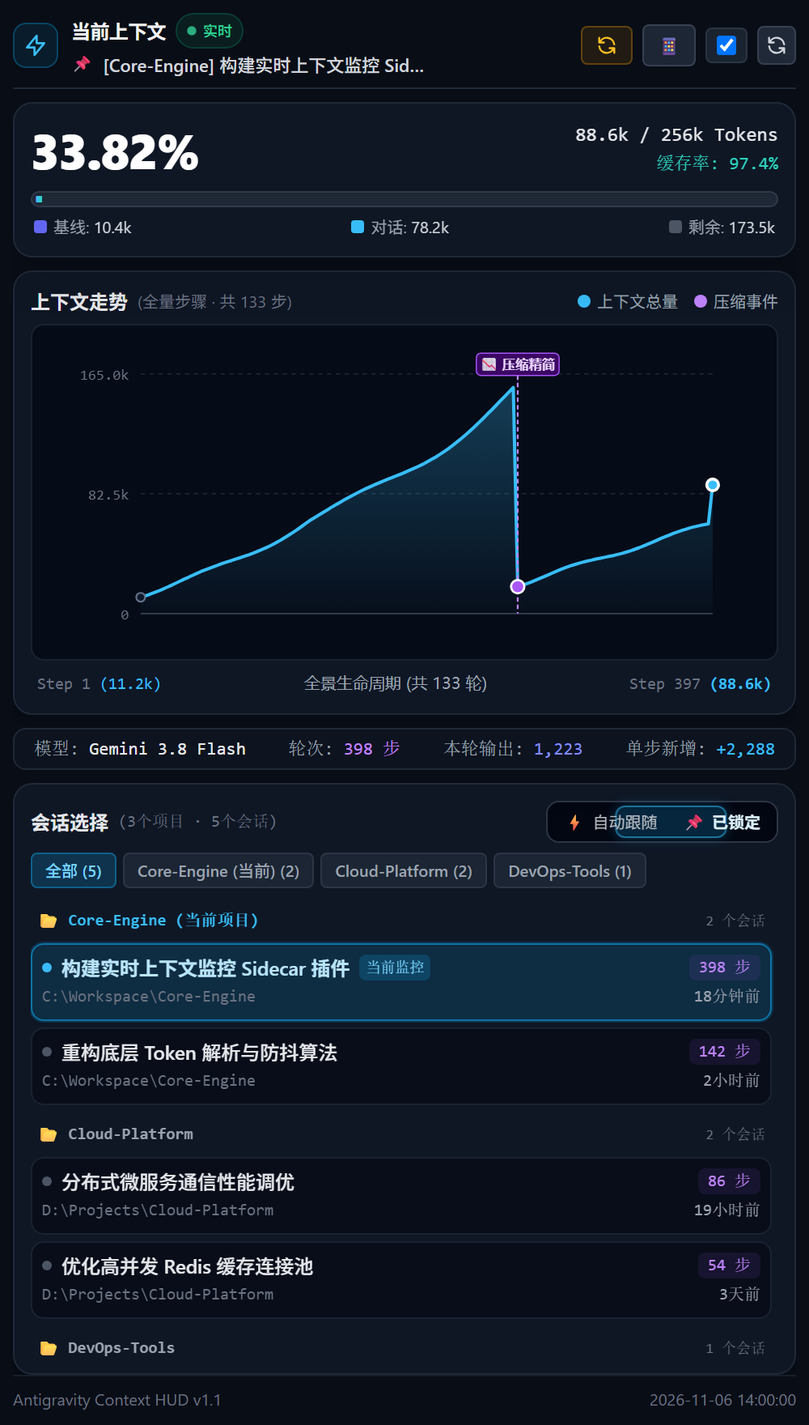
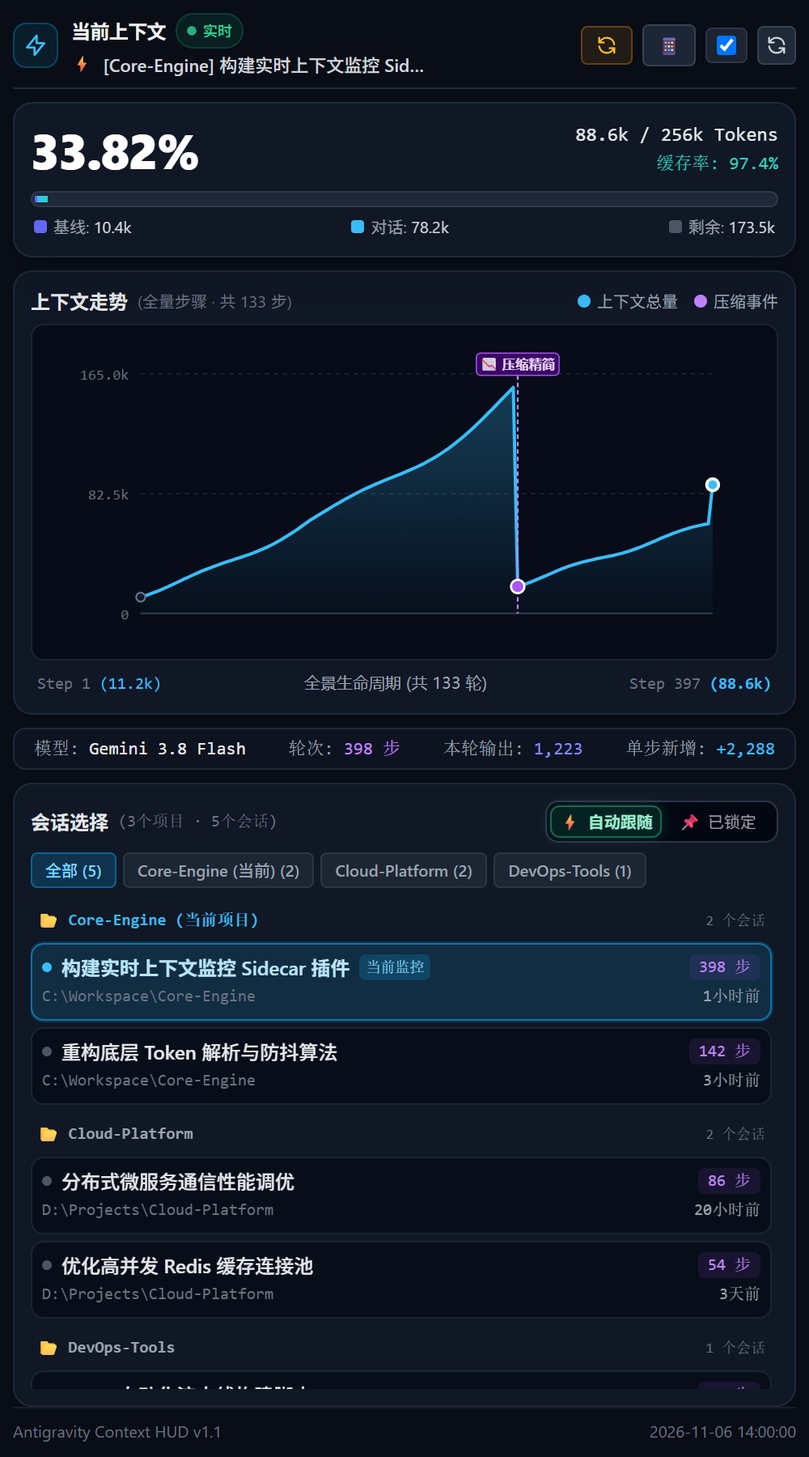
界面与文档优化：修复矢量图标、修正预览滑块对齐并重构专业技术文档

diff --git a/assets/preview.html b/assets/preview.html
@@ -46,11 +46,11 @@
 
   <script>
     window.SANITY_DEMO_DATA = {"success": true, "conversation": {"cid": "conv-core-001", "title": "构建实时上下文监控 Sidecar 插件", "project_name": "Core-Engine", "project_path": "C:\\Workspace\\Core-Engine", "last_modified": "2026-11-06 14:00:00", "last_user_input": "2026-11-06 14:00:00", "step_count": 398}, "model": {"name": "Gemini 3.8 Flash", "context_limit": 262144, "limit_display": "256k"}, "context": {"current_tokens": 88640, "limit_tokens": 262144, "remaining_tokens": 173504, "occupancy_ratio": 33.82, "speed_grade": {"title": "极速闪电档", "desc": "上下文近乎全量命中缓存，首字毫秒级到达", "icon": "⚡", "color": "emerald"}, "latest_uncached_input": 2288, "latest_cache_read": 86352, "latest_output": 1223, "cache_hit_ratio": 97.4, "baseline_system_tokens": 10420, "growth_tokens": 78220, "avg_step_growth": 220, "total_steps": 398, "last_step_index": 398, "last_tools": ["read_file", "edit_file"], "health": {"level": "healthy", "status_text": "健康", "tip": "", "badge_color": "emerald", "action": "none"}, "stacked_composition": {"baseline_pct": 4.0, "growth_pct": 29.8, "free_pct": 66.2}, "spikes": []}, "cumulative": {"input_tokens": 2154300, "cache_tokens": 42180000, "output_tokens": 312000, "total_tokens": 44646300}, "step_history": [{"step_index": 1, "context_tokens": 11220, "delta_tokens": 800, "cache_read_tokens": 10546, "input_tokens": 800, "output_tokens": 120, "tools": ["read_file"], "is_compaction": false, "compaction_drop": 0}, {"step_index": 4, "context_tokens": 12124, "delta_tokens": 904, "cache_read_tokens": 11396, "input_tokens": 904, "output_tokens": 120, "tools": ["run_command"], "is_compaction": false, "compaction_drop": 0}, {"step_index": 7, "context_tokens": 13129, "delta_tokens": 1005, "cache_read_tokens": 12341, "input_tokens": 1005, "output_tokens": 120, "tools": ["read_file"], "is_compaction": false, "compaction_drop": 0}, {"step_index": 10, "context_tokens": 14229, "delta_tokens": 1100, "cache_read_tokens": 13375, "input_tokens": 1100, "output_tokens": 120, "tools": ["run_command"], "is_compaction": false, "compaction_drop": 0}, {"step_index": 13, "context_tokens": 15415, "delta_tokens": 1186, "cache_read_tokens": 14490, "input_tokens": 1186, "output_tokens": 120, "tools": ["read_file"], "is_compaction": false, "compaction_drop": 0}, {"step_index": 16, "context_tokens": 16676, "delta_tokens": 1261, "cache_read_tokens": 15675, "input_tokens": 1261, "output_tokens": 120, "tools": ["run_command"], "is_compaction": false, "compaction_drop": 0}, {"step_index": 19, "context_tokens": 17998, "delta_tokens": 1322, "cache_read_tokens": 16918, "input_tokens": 1322, "output_tokens": 120, "tools": ["read_file"], "is_compaction": false, "compaction_drop": 0}, {"step_index": 22, "context_tokens": 19367, "delta_tokens": 1369, "cache_read_tokens": 18204, "input_tokens": 1369, "output_tokens": 120, "tools": ["run_command"], "is_compaction": false, "compaction_drop": 0}, {"step_index": 25, "context_tokens": 20766, "delta_tokens": 1399, "cache_read_tokens": 19520, "input_tokens": 1399, "output_tokens": 120, "tools": ["read_file"], "is_compaction": false, "compaction_drop": 0}, {"step_index": 28, "context_tokens": 22180, "delta_tokens": 1414, "cache_read_tokens": 20849, "input_tokens": 1414, "output_tokens": 120, "tools": ["run_command"], "is_compaction": false, "compaction_drop": 0}, {"step_index": 31, "context_tokens": 23593, "delta_tokens": 1413, "cache_read_tokens": 22177, "input_tokens": 1413, "output_tokens": 120, "tools": ["read_file"], "is_compaction": false, "compaction_drop": 0}, {"step_index": 34, "context_tokens": 24991, "delta_tokens": 1398, "cache_read_tokens": 23491, "input_tokens": 1398, "output_tokens": 120, "tools": ["run_command"], "is_compaction": false, "compaction_drop": 0}, {"step_index": 37, "context_tokens": 26361, "delta_tokens": 1370, "cache_read_tokens": 24779, "input_tokens": 1370, "output_tokens": 120, "tools": ["read_file"], "is_compaction": false, "compaction_drop": 0}, {"step_index": 40, "context_tokens": 27692, "delta_tokens": 1331, "cache_read_tokens": 26030, "input_tokens": 1331, "output_tokens": 120, "tools": ["run_command"], "is_compaction": false, "compaction_drop": 0}, {"step_index": 43, "context_tokens": 28975, "delta_tokens": 1283, "cache_read_tokens": 27236, "input_tokens": 1283, "output_tokens": 120, "tools": ["read_file"], "is_compaction": false, "compaction_drop": 0}, {"step_index": 46, "context_tokens": 30206, "delta_tokens": 1231, "cache_read_tokens": 28393, "input_tokens": 1231, "output_tokens": 120, "tools": ["run_command"], "is_compaction": false, "compaction_drop": 0}, {"step_index": 49, "context_tokens": 31382, "delta_tokens": 1176, "cache_read_tokens": 29499, "input_tokens": 1176, "output_tokens": 120, "tools": ["read_file"], "is_compaction": false, "compaction_drop": 0}, {"step_index": 52, "context_tokens": 32504, "delta_tokens": 1122, "cache_read_tokens": 30553, "input_tokens": 1122, "output_tokens": 120, "tools": ["run_command"], "is_compaction": false, "compaction_drop": 0}, {"step_index": 55, "context_tokens": 33576, "delta_tokens": 1072, "cache_read_tokens": 31561, "input_tokens": 1072, "output_tokens": 120, "tools": ["read_file"], "is_compaction": false, "compaction_drop": 0}, {"step_index": 58, "context_tokens": 34606, "delta_tokens": 1030, "cache_read_tokens": 32529, "input_tokens": 1030, "output_tokens": 120, "tools": ["run_command"], "is_compaction": false, "compaction_drop": 0}, {"step_index": 61, "context_tokens": 35603, "delta_tokens": 997, "cache_read_tokens": 33466, "input_tokens": 997, "output_tokens": 120, "tools": ["read_file"], "is_compaction": false, "compaction_drop": 0}, {"step_index": 64, "context_tokens": 36579, "delta_tokens": 976, "cache_read_tokens": 34384, "input_tokens": 976, "output_tokens": 120, "tools": ["run_command"], "is_compaction": false, "compaction_drop": 0}, {"step_index": 67, "context_tokens": 37548, "delta_tokens": 969, "cache_read_tokens": 35295, "input_tokens": 969, "output_tokens": 120, "tools": ["read_file"], "is_compaction": false, "compaction_drop": 0}, {"step_index": 70, "context_tokens": 38525, "delta_tokens": 977, "cache_read_tokens": 36213, "input_tokens": 977, "output_tokens": 120, "tools": ["run_command"], "is_compaction": false, "compaction_drop": 0}, {"step_index": 73, "context_tokens": 39526, "delta_tokens": 1001, "cache_read_tokens": 37154, "input_tokens": 1001, "output_tokens": 120, "tools": ["read_file"], "is_compaction": false, "compaction_drop": 0}, {"step_index": 76, "context_tokens": 40567, "delta_tokens": 1041, "cache_read_tokens": 38132, "input_tokens": 1041, "output_tokens": 120, "tools": ["run_command"], "is_compaction": false, "compaction_drop": 0}, {"step_index": 79, "context_tokens": 41663, "delta_tokens": 1096, "cache_read_tokens": 39163, "input_tokens": 1096, "output_tokens": 120, "tools": ["read_file"], "is_compaction": false, "compaction_drop": 0}, {"step_index": 82, "context_tokens": 42828, "delta_tokens": 1165, "cache_read_tokens": 40258, "input_tokens": 1165, "output_tokens": 120, "tools": ["run_command"], "is_compaction": false, "compaction_drop": 0}, {"step_index": 85, "context_tokens": 44075, "delta_tokens": 1247, "cache_read_tokens": 41430, "input_tokens": 1247, "output_tokens": 120, "tools": ["read_file"], "is_compaction": false, "compaction_drop": 0}, {"step_index": 88, "context_tokens": 45414, "delta_tokens": 1339, "cache_read_tokens": 42689, "input_tokens": 1339, "output_tokens": 120, "tools": ["run_command"], "is_compaction": false, "compaction_drop": 0}, {"step_index": 91, "context_tokens": 46852, "delta_tokens": 1438, "cache_read_tokens": 44040, "input_tokens": 1438, "output_tokens": 120, "tools": ["read_file"], "is_compaction": false, "compaction_drop": 0}, {"step_index": 94, "context_tokens": 48393, "delta_tokens": 1541, "cache_read_tokens": 45489, "input_tokens": 1541, "output_tokens": 120, "tools": ["run_command"], "is_compaction": false, "compaction_drop": 0}, {"step_index": 97, "context_tokens": 50039, "delta_tokens": 1646, "cache_read_tokens": 47036, "input_tokens": 1646, "output_tokens": 120, "tools": ["read_file"], "is_compaction": false, "compaction_drop": 0}, {"step_index": 100, "context_tokens": 51788, "delta_tokens": 1749, "cache_read_tokens": 48680, "input_tokens": 1749, "output_tokens": 120, "tools": ["run_command"], "is_compaction": false, "compaction_drop": 0}, {"step_index": 103, "context_tokens": 53635, "delta_tokens": 1847, "cache_read_tokens": 50416, "input_tokens": 1847, "output_tokens": 120, "tools": ["read_file"], "is_compaction": false, "compaction_drop": 0}, {"step_index": 106, "context_tokens": 55572, "delta_tokens": 1937, "cache_read_tokens": 52237, "input_tokens": 1937, "output_tokens": 120, "tools": ["run_command"], "is_compaction": false, "compaction_drop": 0}, {"step_index": 109, "context_tokens": 57589, "delta_tokens": 2017, "cache_read_tokens": 54133, "input_tokens": 2017, "output_tokens": 120, "tools": ["read_file"], "is_compaction": false, "compaction_drop": 0}, {"step_index": 112, "context_tokens": 59673, "delta_tokens": 2084, "cache_read_tokens": 56092, "input_tokens": 2084, "output_tokens": 120, "tools": ["run_command"], "is_compaction": false, "compaction_drop": 0}, {"step_index": 115, "context_tokens": 61810, "delta_tokens": 2137, "cache_read_tokens": 58101, "input_tokens": 2137, "output_tokens": 120, "tools": ["read_file"], "is_compaction": false, "compaction_drop": 0}, {"step_index": 118, "context_tokens": 63984, "delta_tokens": 2174, "cache_read_tokens": 60144, "input_tokens": 2174, "output_tokens": 120, "tools": ["run_command"], "is_compaction": false, "compaction_drop": 0}, {"step_index": 120, "context_tokens": 65784, "delta_tokens": 1800, "cache_read_tokens": 63152, "input_tokens": 1800, "output_tokens": 300, "tools": ["edit_file"], "is_compaction": false, "compaction_drop": 0}, {"step_index": 123, "context_tokens": 67607, "delta_tokens": 1823, "cache_read_tokens": 64902, "input_tokens": 1823, "output_tokens": 300, "tools": ["write_file"], "is_compaction": false, "compaction_drop": 0}, {"step_index": 126, "context_tokens": 69440, "delta_tokens": 1833, "cache_read_tokens": 66662, "input_tokens": 1833, "output_tokens": 300, "tools": ["edit_file"], "is_compaction": false, "compaction_drop": 0}, {"step_index": 129, "context_tokens": 71270, "delta_tokens": 1830, "cache_read_tokens": 68419, "input_tokens": 1830, "output_tokens": 300, "tools": ["write_file"], "is_compaction": false, "compaction_drop": 0}, {"step_index": 132, "context_tokens": 73085, "delta_tokens": 1815, "cache_read_tokens": 70161, "input_tokens": 1815, "output_tokens": 300, "tools": ["edit_file"], "is_compaction": false, "compaction_drop": 0}, {"step_index": 135, "context_tokens": 74874, "delta_tokens": 1789, "cache_read_tokens": 71879, "input_tokens": 1789, "output_tokens": 300, "tools": ["write_file"], "is_compaction": false, "compaction_drop": 0}, {"step_index": 138, "context_tokens": 76626, "delta_tokens": 1752, "cache_read_tokens": 73560, "input_tokens": 1752, "output_tokens": 300, "tools": ["edit_file"], "is_compaction": false, "compaction_drop": 0}, {"step_index": 141, "context_tokens": 78334, "delta_tokens": 1708, "cache_read_tokens": 75200, "input_tokens": 1708, "output_tokens": 300, "tools": ["write_file"], "is_compaction": false, "compaction_drop": 0}, {"step_index": 144, "context_tokens": 79991, "delta_tokens": 1657, "cache_read_tokens": 76791, "input_tokens": 1657, "output_tokens": 300, "tools": ["edit_file"], "is_compaction": false, "compaction_drop": 0}, {"step_index": 147, "context_tokens": 81592, "delta_tokens": 1601, "cache_read_tokens": 78328, "input_tokens": 1601, "output_tokens": 300, "tools": ["write_file"], "is_compaction": false, "compaction_drop": 0}, {"step_index": 150, "context_tokens": 83134, "delta_tokens": 1542, "cache_read_tokens": 79808, "input_tokens": 1542, "output_tokens": 300, "tools": ["edit_file"], "is_compaction": false, "compaction_drop": 0}, {"step_index": 153, "context_tokens": 84616, "delta_tokens": 1482, "cache_read_tokens": 81231, "input_tokens": 1482, "output_tokens": 300, "tools": ["write_file"], "is_compaction": false, "compaction_drop": 0}, {"step_index": 156, "context_tokens": 86039, "delta_tokens": 1423, "cache_read_tokens": 82597, "input_tokens": 1423, "output_tokens": 300, "tools": ["edit_file"], "is_compaction": false, "compaction_drop": 0}, {"step_index": 159, "context_tokens": 87406, "delta_tokens": 1367, "cache_read_tokens": 83909, "input_tokens": 1367, "output_tokens": 300, "tools": ["write_file"], "is_compaction": false, "compaction_drop": 0}, {"step_index": 162, "context_tokens": 88723, "delta_tokens": 1317, "cache_read_tokens": 85174, "input_tokens": 1317, "output_tokens": 300, "tools": ["edit_file"], "is_compaction": false, "compaction_drop": 0}, {"step_index": 165, "context_tokens": 89996, "delta_tokens": 1273, "cache_read_tokens": 86396, "input_tokens": 1273, "output_tokens": 300, "tools": ["write_file"], "is_compaction": false, "compaction_drop": 0}, {"step_index": 168, "context_tokens": 91233, "delta_tokens": 1237, "cache_read_tokens": 87583, "input_tokens": 1237, "output_tokens": 300, "tools": ["edit_file"], "is_compaction": false, "compaction_drop": 0}, {"step_index": 171, "context_tokens": 92444, "delta_tokens": 1211, "cache_read_tokens": 88746, "input_tokens": 1211, "output_tokens": 300, "tools": ["write_file"], "is_compaction": false, "compaction_drop": 0}, {"step_index": 174, "context_tokens": 93641, "delta_tokens": 1197, "cache_read_tokens": 89895, "input_tokens": 1197, "output_tokens": 300, "tools": ["edit_file"], "is_compaction": false, "compaction_drop": 0}, {"step_index": 177, "context_tokens": 94836, "delta_tokens": 1195, "cache_read_tokens": 91042, "input_tokens": 1195, "output_tokens": 300, "tools": ["write_file"], "is_compaction": false, "compaction_drop": 0}, {"step_index": 180, "context_tokens": 96042, "delta_tokens": 1206, "cache_read_tokens": 92200, "input_tokens": 1206, "output_tokens": 300, "tools": ["edit_file"], "is_compaction": false, "compaction_drop": 0}, {"step_index": 183, "context_tokens": 97272, "delta_tokens": 1230, "cache_read_tokens": 93381, "input_tokens": 1230, "output_tokens": 300, "tools": ["write_file"], "is_compaction": false, "compaction_drop": 0}, {"step_index": 186, "context_tokens": 98539, "delta_tokens": 1267, "cache_read_tokens": 94597, "input_tokens": 1267, "output_tokens": 300, "tools": ["edit_file"], "is_compaction": false, "compaction_drop": 0}, {"step_index": 189, "context_tokens": 99857, "delta_tokens": 1318, "cache_read_tokens": 95862, "input_tokens": 1318, "output_tokens": 300, "tools": ["write_file"], "is_compaction": false, "compaction_drop": 0}, {"step_index": 192, "context_tokens": 101238, "delta_tokens": 1381, "cache_read_tokens": 97188, "input_tokens": 1381, "output_tokens": 300, "tools": ["edit_file"], "is_compaction": false, "compaction_drop": 0}, {"step_index": 195, "context_tokens": 102695, "delta_tokens": 1457, "cache_read_tokens": 98587, "input_tokens": 1457, "output_tokens": 300, "tools": ["write_file"], "is_compaction": false, "compaction_drop": 0}, {"step_index": 198, "context_tokens": 104239, "delta_tokens": 1544, "cache_read_tokens": 100069, "input_tokens": 1544, "output_tokens": 300, "tools": ["edit_file"], "is_compaction": false, "compaction_drop": 0}, {"step_index": 201, "context_tokens": 105879, "delta_tokens": 1640, "cache_read_tokens": 101643, "input_tokens": 1640, "output_tokens": 300, "tools": ["write_file"], "is_compaction": false, "compaction_drop": 0}, {"step_index": 204, "context_tokens": 107624, "delta_tokens": 1745, "cache_read_tokens": 103319, "input_tokens": 1745, "output_tokens": 300, "tools": ["edit_file"], "is_compaction": false, "compaction_drop": 0}, {"step_index": 207, "context_tokens": 109481, "delta_tokens": 1857, "cache_read_tokens": 105101, "input_tokens": 1857, "output_tokens": 300, "tools": ["write_file"], "is_compaction": false, "compaction_drop": 0}, {"step_index": 210, "context_tokens": 111454, "delta_tokens": 1973, "cache_read_tokens": 106995, "input_tokens": 1973, "output_tokens": 300, "tools": ["edit_file"], "is_compaction": false, "compaction_drop": 0}, {"step_index": 213, "context_tokens": 113546, "delta_tokens": 2092, "cache_read_tokens": 109004, "input_tokens": 2092, "output_tokens": 300, "tools": ["write_file"], "is_compaction": false, "compaction_drop": 0}, {"step_index": 216, "context_tokens": 115758, "delta_tokens": 2212, "cache_read_tokens": 111127, "input_tokens": 2212, "output_tokens": 300, "tools": ["edit_file"], "is_compaction": false, "compaction_drop": 0}, {"step_index": 219, "context_tokens": 118089, "delta_tokens": 2331, "cache_read_tokens": 113365, "input_tokens": 2331, "output_tokens": 300, "tools": ["write_file"], "is_compaction": false, "compaction_drop": 0}, {"step_index": 222, "context_tokens": 120535, "delta_tokens": 2446, "cache_read_tokens": 115713, "input_tokens": 2446, "output_tokens": 300, "tools": ["edit_file"], "is_compaction": false, "compaction_drop": 0}, {"step_index": 225, "context_tokens": 123092, "delta_tokens": 2557, "cache_read_tokens": 118168, "input_tokens": 2557, "output_tokens": 300, "tools": ["write_file"], "is_compaction": false, "compaction_drop": 0}, {"step_index": 228, "context_tokens": 125752, "delta_tokens": 2660, "cache_read_tokens": 120721, "input_tokens": 2660, "output_tokens": 300, "tools": ["edit_file"], "is_compaction": false, "compaction_drop": 0}, {"step_index": 231, "context_tokens": 128507, "delta_tokens": 2755, "cache_read_tokens": 123366, "input_tokens": 2755, "output_tokens": 300, "tools": ["write_file"], "is_compaction": false, "compaction_drop": 0}, {"step_index": 234, "context_tokens": 131347, "delta_tokens": 2840, "cache_read_tokens": 126093, "input_tokens": 2840, "output_tokens": 300, "tools": ["edit_file"], "is_compaction": false, "compaction_drop": 0}, {"step_index": 237, "context_tokens": 134261, "delta_tokens": 2914, "cache_read_tokens": 128890, "input_tokens": 2914, "output_tokens": 300, "tools": ["write_file"], "is_compaction": false, "compaction_drop": 0}, {"step_index": 240, "context_tokens": 137237, "delta_tokens": 2976, "cache_read_tokens": 131747, "input_tokens": 2976, "output_tokens": 300, "tools": ["edit_file"], "is_compaction": false, "compaction_drop": 0}, {"step_index": 243, "context_tokens": 140261, "delta_tokens": 3024, "cache_read_tokens": 134650, "input_tokens": 3024, "output_tokens": 300, "tools": ["write_file"], "is_compaction": false, "compaction_drop": 0}, {"step_index": 246, "context_tokens": 143320, "delta_tokens": 3059, "cache_read_tokens": 137587, "input_tokens": 3059, "output_tokens": 300, "tools": ["edit_file"], "is_compaction": false, "compaction_drop": 0}, {"step_index": 249, "context_tokens": 146401, "delta_tokens": 3081, "cache_read_tokens": 140544, "input_tokens": 3081, "output_tokens": 300, "tools": ["write_file"], "is_compaction": false, "compaction_drop": 0}, {"step_index": 252, "context_tokens": 149491, "delta_tokens": 3090, "cache_read_tokens": 143511, "input_tokens": 3090, "output_tokens": 300, "tools": ["edit_file"], "is_compaction": false, "compaction_drop": 0}, {"step_index": 255, "context_tokens": 152576, "delta_tokens": 3085, "cache_read_tokens": 146472, "input_tokens": 3085, "output_tokens": 300, "tools": ["write_file"], "is_compaction": false, "compaction_drop": 0}, {"step_index": 258, "context_tokens": 155645, "delta_tokens": 3069, "cache_read_tokens": 149419, "input_tokens": 3069, "output_tokens": 300, "tools": ["edit_file"], "is_compaction": false, "compaction_drop": 0}, {"step_index": 263, "context_tokens": 18500, "delta_tokens": 0, "cache_read_tokens": 0, "input_tokens": 18500, "output_tokens": 240, "tools": ["run_command"], "is_compaction": true, "compaction_drop": 137145}, {"step_index": 265, "context_tokens": 19450, "delta_tokens": 950, "cache_read_tokens": 18866, "input_tokens": 950, "output_tokens": 450, "tools": ["read_file", "edit_file"], "is_compaction": false, "compaction_drop": 0}, {"step_index": 268, "context_tokens": 20486, "delta_tokens": 1036, "cache_read_tokens": 19871, "input_tokens": 1036, "output_tokens": 450, "tools": ["run_command"], "is_compaction": false, "compaction_drop": 0}, {"step_index": 271, "context_tokens": 21603, "delta_tokens": 1117, "cache_read_tokens": 20954, "input_tokens": 1117, "output_tokens": 450, "tools": ["run_command"], "is_compaction": false, "compaction_drop": 0}, {"step_index": 274, "context_tokens": 22791, "delta_tokens": 1188, "cache_read_tokens": 22107, "input_tokens": 1188, "output_tokens": 450, "tools": ["read_file", "edit_file"], "is_compaction": false, "compaction_drop": 0}, {"step_index": 277, "context_tokens": 24035, "delta_tokens": 1244, "cache_read_tokens": 23313, "input_tokens": 1244, "output_tokens": 450, "tools": ["run_command"], "is_compaction": false, "compaction_drop": 0}, {"step_index": 280, "context_tokens": 25317, "delta_tokens": 1282, "cache_read_tokens": 24557, "input_tokens": 1282, "output_tokens": 450, "tools": ["run_command"], "is_compaction": false, "compaction_drop": 0}, {"step_index": 283, "context_tokens": 26616, "delta_tokens": 1299, "cache_read_tokens": 25817, "input_tokens": 1299, "output_tokens": 450, "tools": ["read_file", "edit_file"], "is_compaction": false, "compaction_drop": 0}, {"step_index": 286, "context_tokens": 27910, "delta_tokens": 1294, "cache_read_tokens": 27072, "input_tokens": 1294, "output_tokens": 450, "tools": ["run_command"], "is_compaction": false, "compaction_drop": 0}, {"step_index": 289, "context_tokens": 29178, "delta_tokens": 1268, "cache_read_tokens": 28302, "input_tokens": 1268, "output_tokens": 450, "tools": ["run_command"], "is_compaction": false, "compaction_drop": 0}, {"step_index": 292, "context_tokens": 30400, "delta_tokens": 1222, "cache_read_tokens": 29488, "input_tokens": 1222, "output_tokens": 450, "tools": ["read_file", "edit_file"], "is_compaction": false, "compaction_drop": 0}, {"step_index": 295, "context_tokens": 31559, "delta_tokens": 1159, "cache_read_tokens": 30612, "input_tokens": 1159, "output_tokens": 450, "tools": ["run_command"], "is_compaction": false, "compaction_drop": 0}, {"step_index": 298, "context_tokens": 32642, "delta_tokens": 1083, "cache_read_tokens": 31662, "input_tokens": 1083, "output_tokens": 450, "tools": ["run_command"], "is_compaction": false, "compaction_drop": 0}, {"step_index": 301, "context_tokens": 33641, "delta_tokens": 999, "cache_read_tokens": 32631, "input_tokens": 999, "output_tokens": 450, "tools": ["read_file", "edit_file"], "is_compaction": false, "compaction_drop": 0}, {"step_index": 304, "context_tokens": 34553, "delta_tokens": 912, "cache_read_tokens": 33516, "input_tokens": 912, "output_tokens": 450, "tools": ["run_command"], "is_compaction": false, "compaction_drop": 0}, {"step_index": 307, "context_tokens": 35380, "delta_tokens": 827, "cache_read_tokens": 34318, "input_tokens": 827, "output_tokens": 450, "tools": ["run_command"], "is_compaction": false, "compaction_drop": 0}, {"step_index": 310, "context_tokens": 36129, "delta_tokens": 749, "cache_read_tokens": 35045, "input_tokens": 749, "output_tokens": 450, "tools": ["read_file", "edit_file"], "is_compaction": false, "compaction_drop": 0}, {"step_index": 313, "context_tokens": 36814, "delta_tokens": 685, "cache_read_tokens": 35709, "input_tokens": 685, "output_tokens": 450, "tools": ["run_command"], "is_compaction": false, "compaction_drop": 0}, {"step_index": 316, "context_tokens": 37450, "delta_tokens": 636, "cache_read_tokens": 36326, "input_tokens": 636, "output_tokens": 450, "tools": ["run_command"], "is_compaction": false, "compaction_drop": 0}, {"step_index": 319, "context_tokens": 38057, "delta_tokens": 607, "cache_read_tokens": 36915, "input_tokens": 607, "output_tokens": 450, "tools": ["read_file", "edit_file"], "is_compaction": false, "compaction_drop": 0}, {"step_index": 322, "context_tokens": 38657, "delta_tokens": 600, "cache_read_tokens": 37497, "input_tokens": 600, "output_tokens": 450, "tools": ["run_command"], "is_compaction": false, "compaction_drop": 0}, {"step_index": 325, "context_tokens": 39271, "delta_tokens": 614, "cache_read_tokens": 38092, "input_tokens": 614, "output_tokens": 450, "tools": ["run_command"], "is_compaction": false, "compaction_drop": 0}, {"step_index": 328, "context_tokens": 39920, "delta_tokens": 649, "cache_read_tokens": 38722, "input_tokens": 649, "output_tokens": 450, "tools": ["read_file", "edit_file"], "is_compaction": false, "compaction_drop": 0}, {"step_index": 331, "context_tokens": 40623, "delta_tokens": 703, "cache_read_tokens": 39404, "input_tokens": 703, "output_tokens": 450, "tools": ["run_command"], "is_compaction": false, "compaction_drop": 0}, {"step_index": 334, "context_tokens": 41395, "delta_tokens": 772, "cache_read_tokens": 40153, "input_tokens": 772, "output_tokens": 450, "tools": ["run_command"], "is_compaction": false, "compaction_drop": 0}, {"step_index": 337, "context_tokens": 42247, "delta_tokens": 852, "cache_read_tokens": 40979, "input_tokens": 852, "output_tokens": 450, "tools": ["read_file", "edit_file"], "is_compaction": false, "compaction_drop": 0}, {"step_index": 340, "context_tokens": 43185, "delta_tokens": 938, "cache_read_tokens": 41889, "input_tokens": 938, "output_tokens": 450, "tools": ["run_command"], "is_compaction": false, "compaction_drop": 0}, {"step_index": 343, "context_tokens": 44210, "delta_tokens": 1025, "cache_read_tokens": 42883, "input_tokens": 1025, "output_tokens": 450, "tools": ["run_command"], "is_compaction": false, "compaction_drop": 0}, {"step_index": 346, "context_tokens": 45317, "delta_tokens": 1107, "cache_read_tokens": 43957, "input_tokens": 1107, "output_tokens": 450, "tools": ["read_file", "edit_file"], "is_compaction": false, "compaction_drop": 0}, {"step_index": 349, "context_tokens": 46496, "delta_tokens": 1179, "cache_read_tokens": 45101, "input_tokens": 1179, "output_tokens": 450, "tools": ["run_command"], "is_compaction": false, "compaction_drop": 0}, {"step_index": 352, "context_tokens": 47734, "delta_tokens": 1238, "cache_read_tokens": 46301, "input_tokens": 1238, "output_tokens": 450, "tools": ["run_command"], "is_compaction": false, "compaction_drop": 0}, {"step_index": 355, "context_tokens": 49012, "delta_tokens": 1278, "cache_read_tokens": 47541, "input_tokens": 1278, "output_tokens": 450, "tools": ["read_file", "edit_file"], "is_compaction": false, "compaction_drop": 0}, {"step_index": 358, "context_tokens": 50310, "delta_tokens": 1298, "cache_read_tokens": 48800, "input_tokens": 1298, "output_tokens": 450, "tools": ["run_command"], "is_compaction": false, "compaction_drop": 0}, {"step_index": 361, "context_tokens": 51606, "delta_tokens": 1296, "cache_read_tokens": 50057, "input_tokens": 1296, "output_tokens": 450, "tools": ["run_command"], "is_compaction": false, "compaction_drop": 0}, {"step_index": 364, "context_tokens": 52878, "delta_tokens": 1272, "cache_read_tokens": 51291, "input_tokens": 1272, "output_tokens": 450, "tools": ["read_file", "edit_file"], "is_compaction": false, "compaction_drop": 0}, {"step_index": 367, "context_tokens": 54107, "delta_tokens": 1229, "cache_read_tokens": 52483, "input_tokens": 1229, "output_tokens": 450, "tools": ["run_command"], "is_compaction": false, "compaction_drop": 0}, {"step_index": 370, "context_tokens": 55275, "delta_tokens": 1168, "cache_read_tokens": 53616, "input_tokens": 1168, "output_tokens": 450, "tools": ["run_command"], "is_compaction": false, "compaction_drop": 0}, {"step_index": 373, "context_tokens": 56369, "delta_tokens": 1094, "cache_read_tokens": 54677, "input_tokens": 1094, "output_tokens": 450, "tools": ["read_file", "edit_file"], "is_compaction": false, "compaction_drop": 0}, {"step_index": 376, "context_tokens": 57379, "delta_tokens": 1010, "cache_read_tokens": 55657, "input_tokens": 1010, "output_tokens": 450, "tools": ["run_command"], "is_compaction": false, "compaction_drop": 0}, {"step_index": 379, "context_tokens": 58302, "delta_tokens": 923, "cache_read_tokens": 56552, "input_tokens": 923, "output_tokens": 450, "tools": ["run_command"], "is_compaction": false, "compaction_drop": 0}, {"step_index": 382, "context_tokens": 59140, "delta_tokens": 838, "cache_read_tokens": 57365, "input_tokens": 838, "output_tokens": 450, "tools": ["read_file", "edit_file"], "is_compaction": false, "compaction_drop": 0}, {"step_index": 385, "context_tokens": 59899, "delta_tokens": 759, "cache_read_tokens": 58102, "input_tokens": 759, "output_tokens": 450, "tools": ["run_command"], "is_compaction": false, "compaction_drop": 0}, {"step_index": 388, "context_tokens": 60591, "delta_tokens": 692, "cache_read_tokens": 58773, "input_tokens": 692, "output_tokens": 450, "tools": ["run_command"], "is_compaction": false, "compaction_drop": 0}, {"step_index": 391, "context_tokens": 61233, "delta_tokens": 642, "cache_read_tokens": 59396, "input_tokens": 642, "output_tokens": 450, "tools": ["read_file", "edit_file"], "is_compaction": false, "compaction_drop": 0}, {"step_index": 394, "context_tokens": 61843, "delta_tokens": 610, "cache_read_tokens": 59987, "input_tokens": 610, "output_tokens": 450, "tools": ["run_command"], "is_compaction": false, "compaction_drop": 0}, {"step_index": 397, "context_tokens": 88640, "delta_tokens": 600, "cache_read_tokens": 60569, "input_tokens": 600, "output_tokens": 450, "tools": ["run_command"], "is_compaction": false, "compaction_drop": 0}], "all_conversations": [{"cid": "conv-core-001", "title": "构建实时上下文监控 Sidecar 插件", "project_name": "Core-Engine", "project_path": "C:\\Workspace\\Core-Engine", "last_modified": "2026-11-06 14:00:00", "last_user_input": "2026-11-06 14:00:00", "step_count": 398}, {"cid": "conv-core-002", "title": "重构底层 Token 解析与防抖算法", "project_name": "Core-Engine", "project_path": "C:\\Workspace\\Core-Engine", "last_modified": "2026-11-06 12:15:00", "last_user_input": "2026-11-06 12:15:00", "step_count": 142}, {"cid": "conv-cloud-001", "title": "分布式微服务通信性能调优", "project_name": "Cloud-Platform", "project_path": "D:\\Projects\\Cloud-Platform", "last_modified": "2026-11-05 18:30:00", "last_user_input": "2026-11-05 18:30:00", "step_count": 86}, {"cid": "conv-cloud-002", "title": "优化高并发 Redis 缓存连接池", "project_name": "Cloud-Platform", "project_path": "D:\\Projects\\Cloud-Platform", "last_modified": "2026-11-03 10:20:00", "last_user_input": "2026-11-03 10:20:00", "step_count": 54}, {"cid": "conv-devops-001", "title": "CI/CD 自动化流水线构建脚本", "project_name": "DevOps-Tools", "project_path": "E:\\DevOps\\Pipeline", "last_modified": "2026-11-01 16:45:00", "last_user_input": "2026-11-01 16:45:00", "step_count": 32}], "updated_at": "2026-11-06 14:00:00"};
-    localStorage.setItem('context_hud_locked_cid', 'conv-core-001');
+    localStorage.removeItem('context_hud_locked_cid');
 
     window.addEventListener('DOMContentLoaded', () => {
       cachedConversations = window.SANITY_DEMO_DATA.all_conversations;
-      selectedCid = 'conv-core-001';
+      selectedCid = '';
       trackedCid = 'conv-core-001';
       renderDashboard(window.SANITY_DEMO_DATA);
       renderConversationListUI();
@@ -213,18 +213,18 @@
             <span id="projectCountBadge" class="text-[10px] text-gray-500 font-mono">(按项目分类)</span>
           </div>
           <!-- 左右滑动的可视化切换按钮 (Sliding Segmented Toggle) -->
-          <div id="followLockSwitch" class="relative flex items-center bg-gray-950 p-0.5 rounded-lg border border-gray-700/80 cursor-pointer select-none shadow-inner" title="点击或滑动切换：⚡ 自动跟随最新活跃会话 或 📌 锁定当前会话">
+          <div id="followLockSwitch" class="relative grid grid-cols-2 bg-gray-950 p-0.5 rounded-lg border border-gray-700/80 cursor-pointer select-none shadow-inner w-36" title="点击或滑动切换：⚡ 自动跟随最新活跃会话 或 📌 锁定当前会话">
             <!-- 左右滑动的色块指示药丸 (Sliding Indicator) -->
-            <div id="switchThumb" class="absolute top-0.5 bottom-0.5 left-0.5 w-[calc(50%-2px)] rounded-md transition-all duration-200 ease-out shadow-sm pointer-events-none"></div>
+            <div id="switchThumb" class="absolute top-0.5 bottom-0.5 left-0.5 w-[calc(50%-2px)] rounded-md transition-none shadow-sm pointer-events-none"></div>
 
             <!-- 左选项：自动跟随 -->
-            <button type="button" id="switchOptAuto" class="relative z-10 px-2 py-0.5 text-[10px] font-medium transition-colors flex items-center gap-1 focus:outline-none">
+            <button type="button" id="switchOptAuto" class="relative z-10 w-full py-0.5 text-[10px] font-medium transition-colors flex items-center justify-center gap-1 focus:outline-none">
               <span>⚡</span>
               <span>自动跟随</span>
             </button>
 
             <!-- 右选项：已锁定 -->
-            <button type="button" id="switchOptLock" class="relative z-10 px-2 py-0.5 text-[10px] font-medium transition-colors flex items-center gap-1 focus:outline-none">
+            <button type="button" id="switchOptLock" class="relative z-10 w-full py-0.5 text-[10px] font-medium transition-colors flex items-center justify-center gap-1 focus:outline-none">
               <span>📌</span>
               <span>已锁定</span>
             </button>
@@ -280,7 +280,7 @@
 
   <script>
     let pollTimer = null;
-    let selectedCid = localStorage.getItem('context_hud_locked_cid') || "";
+    let selectedCid = "";
     let trackedCid = "";
     let isFetching = false;
     let isCompactView = localStorage.getItem('context_hud_compact') === 'true';
@@ -337,18 +337,18 @@
       if (!thumb || !optAuto || !optLock) return;
 
       if (selectedCid) {
-        // 状态：已锁定 -> 滑块平滑右移 (琥珀金/天蓝微光)
+        // 状态：已锁定 -> 滑块平滑右移到右半部
         thumb.style.transform = 'translateX(100%)';
-        thumb.className = "absolute top-0.5 bottom-0.5 left-0.5 w-[calc(50%-2px)] rounded-md transition-transform duration-200 ease-out bg-sky-500/20 border border-sky-400/50 shadow-[0_0_8px_rgba(56,189,248,0.25)] pointer-events-none";
-        optAuto.className = "relative z-10 px-2 py-0.5 text-[10px] font-normal transition-colors flex items-center gap-1 text-gray-500 hover:text-gray-300 focus:outline-none";
-        optLock.className = "relative z-10 px-2 py-0.5 text-[10px] font-semibold transition-colors flex items-center gap-1 text-sky-200 focus:outline-none";
+        thumb.className = "absolute top-0.5 bottom-0.5 left-0.5 w-[calc(50%-2px)] rounded-md transition-none bg-sky-500/20 border border-sky-400/50 shadow-[0_0_8px_rgba(56,189,248,0.25)] pointer-events-none";
+        optAuto.className = "relative z-10 w-full py-0.5 text-[10px] font-normal transition-colors flex items-center justify-center gap-1 text-gray-500 hover:text-gray-300 focus:outline-none";
+        optLock.className = "relative z-10 w-full py-0.5 text-[10px] font-semibold transition-colors flex items-center justify-center gap-1 text-sky-200 focus:outline-none";
         if (headerIcon) headerIcon.innerText = "📌";
       } else {
         // 状态：自动跟随 -> 滑块平滑归左
         thumb.style.transform = 'translateX(0%)';
-        thumb.className = "absolute top-0.5 bottom-0.5 left-0.5 w-[calc(50%-2px)] rounded-md transition-transform duration-200 ease-out bg-emerald-500/15 border border-emerald-400/40 shadow-[0_0_8px_rgba(52,211,153,0.2)] pointer-events-none";
-        optAuto.className = "relative z-10 px-2 py-0.5 text-[10px] font-semibold transition-colors flex items-center gap-1 text-emerald-300 focus:outline-none";
-        optLock.className = "relative z-10 px-2 py-0.5 text-[10px] font-normal transition-colors flex items-center gap-1 text-gray-500 hover:text-gray-300 focus:outline-none";
+        thumb.className = "absolute top-0.5 bottom-0.5 left-0.5 w-[calc(50%-2px)] rounded-md transition-none bg-emerald-500/15 border border-emerald-400/40 shadow-[0_0_8px_rgba(52,211,153,0.2)] pointer-events-none";
+        optAuto.className = "relative z-10 w-full py-0.5 text-[10px] font-semibold transition-colors flex items-center justify-center gap-1 text-emerald-300 focus:outline-none";
+        optLock.className = "relative z-10 w-full py-0.5 text-[10px] font-normal transition-colors flex items-center justify-center gap-1 text-gray-500 hover:text-gray-300 focus:outline-none";
         if (headerIcon) headerIcon.innerText = "⚡";
       }
     }
@@ -1076,5 +1076,21 @@
       }
     });
   </script>
+
+<script>
+window.addEventListener('load', () => {
+  setTimeout(() => {
+    const sw = document.getElementById('followLockSwitch');
+    const th = document.getElementById('switchThumb');
+    const a = document.getElementById('switchOptAuto');
+    const l = document.getElementById('switchOptLock');
+    console.log("=== DEBUG RECTS ===");
+    console.log("Switch:", JSON.stringify(sw.getBoundingClientRect()));
+    console.log("Thumb:", JSON.stringify(th.getBoundingClientRect()), "computed transform:", window.getComputedStyle(th).transform);
+    console.log("Auto:", JSON.stringify(a.getBoundingClientRect()));
+    console.log("Lock:", JSON.stringify(l.getBoundingClientRect()));
+  }, 100);
+});
+</script>
 </body>
 </html>

diff --git a/sidecars/context-hud/index.html b/sidecars/context-hud/index.html
@@ -189,18 +189,18 @@
             <span id="projectCountBadge" class="text-[10px] text-gray-500 font-mono">(按项目分类)</span>
           </div>
           <!-- 左右滑动的可视化切换按钮 (Sliding Segmented Toggle) -->
-          <div id="followLockSwitch" class="relative flex items-center bg-gray-950 p-0.5 rounded-lg border border-gray-700/80 cursor-pointer select-none shadow-inner" title="点击或滑动切换：⚡ 自动跟随最新活跃会话 或 📌 锁定当前会话">
+          <div id="followLockSwitch" class="relative grid grid-cols-2 bg-gray-950 p-0.5 rounded-lg border border-gray-700/80 cursor-pointer select-none shadow-inner w-36" title="点击或滑动切换：⚡ 自动跟随最新活跃会话 或 📌 锁定当前会话">
             <!-- 左右滑动的色块指示药丸 (Sliding Indicator) -->
             <div id="switchThumb" class="absolute top-0.5 bottom-0.5 left-0.5 w-[calc(50%-2px)] rounded-md transition-all duration-200 ease-out shadow-sm pointer-events-none"></div>
 
             <!-- 左选项：自动跟随 -->
-            <button type="button" id="switchOptAuto" class="relative z-10 px-2 py-0.5 text-[10px] font-medium transition-colors flex items-center gap-1 focus:outline-none">
+            <button type="button" id="switchOptAuto" class="relative z-10 w-full py-0.5 text-[10px] font-medium transition-colors flex items-center justify-center gap-1 focus:outline-none">
               <span>⚡</span>
               <span>自动跟随</span>
             </button>
 
             <!-- 右选项：已锁定 -->
-            <button type="button" id="switchOptLock" class="relative z-10 px-2 py-0.5 text-[10px] font-medium transition-colors flex items-center gap-1 focus:outline-none">
+            <button type="button" id="switchOptLock" class="relative z-10 w-full py-0.5 text-[10px] font-medium transition-colors flex items-center justify-center gap-1 focus:outline-none">
               <span>📌</span>
               <span>已锁定</span>
             </button>
@@ -313,18 +313,18 @@
       if (!thumb || !optAuto || !optLock) return;
 
       if (selectedCid) {
-        // 状态：已锁定 -> 滑块平滑右移 (琥珀金/天蓝微光)
+        // 状态：已锁定 -> 滑块平滑右移到右半部
         thumb.style.transform = 'translateX(100%)';
         thumb.className = "absolute top-0.5 bottom-0.5 left-0.5 w-[calc(50%-2px)] rounded-md transition-transform duration-200 ease-out bg-sky-500/20 border border-sky-400/50 shadow-[0_0_8px_rgba(56,189,248,0.25)] pointer-events-none";
-        optAuto.className = "relative z-10 px-2 py-0.5 text-[10px] font-normal transition-colors flex items-center gap-1 text-gray-500 hover:text-gray-300 focus:outline-none";
-        optLock.className = "relative z-10 px-2 py-0.5 text-[10px] font-semibold transition-colors flex items-center gap-1 text-sky-200 focus:outline-none";
+        optAuto.className = "relative z-10 w-full py-0.5 text-[10px] font-normal transition-colors flex items-center justify-center gap-1 text-gray-500 hover:text-gray-300 focus:outline-none";
+        optLock.className = "relative z-10 w-full py-0.5 text-[10px] font-semibold transition-colors flex items-center justify-center gap-1 text-sky-200 focus:outline-none";
         if (headerIcon) headerIcon.innerText = "📌";
       } else {
         // 状态：自动跟随 -> 滑块平滑归左
         thumb.style.transform = 'translateX(0%)';
         thumb.className = "absolute top-0.5 bottom-0.5 left-0.5 w-[calc(50%-2px)] rounded-md transition-transform duration-200 ease-out bg-emerald-500/15 border border-emerald-400/40 shadow-[0_0_8px_rgba(52,211,153,0.2)] pointer-events-none";
-        optAuto.className = "relative z-10 px-2 py-0.5 text-[10px] font-semibold transition-colors flex items-center gap-1 text-emerald-300 focus:outline-none";
-        optLock.className = "relative z-10 px-2 py-0.5 text-[10px] font-normal transition-colors flex items-center gap-1 text-gray-500 hover:text-gray-300 focus:outline-none";
+        optAuto.className = "relative z-10 w-full py-0.5 text-[10px] font-semibold transition-colors flex items-center justify-center gap-1 text-emerald-300 focus:outline-none";
+        optLock.className = "relative z-10 w-full py-0.5 text-[10px] font-normal transition-colors flex items-center justify-center gap-1 text-gray-500 hover:text-gray-300 focus:outline-none";
         if (headerIcon) headerIcon.innerText = "⚡";
       }
     }

diff --git a/README.md b/README.md
@@ -1,19 +1,17 @@
-# Antigravity Context Monitor (当前上下文监控插件)
+# Antigravity Context Monitor
 
 <p align="center">
-  <img src="assets/logo.svg" alt="Context Monitor Logo" width="100" height="100" />
+  <img src="assets/logo.svg" alt="Context Monitor Logo" width="96" height="96" />
 </p>
 
 <p align="center">
-  <b>Google Antigravity 2.0 原生可视化侧边栏仪表盘 · 实时监控上下文占用与生命周期演进</b>
+  <b>Google Antigravity 2.0 原生侧边栏上下文与 Token 实时监控插件</b>
 </p>
 
 <p align="center">
   <img src="https://img.shields.io/badge/Antigravity-2.0+-blue?style=flat-square" alt="Antigravity 2.0+">
-  <img src="https://img.shields.io/badge/Dependencies-0%20(Pure%20Stdlib)-emerald?style=flat-square" alt="Zero Dependencies">
-  <img src="https://img.shields.io/badge/Platform-Windows%20(10%2F11)-sky?style=flat-square" alt="Windows Platform">
-  <img src="https://img.shields.io/badge/Python-3.8+%20(py)-purple?style=flat-square" alt="Python py launcher">
-  <img src="https://img.shields.io/badge/License-MIT-amber?style=flat-square" alt="License">
+  <img src="https://img.shields.io/badge/Platform-Windows%20(10%2F11)-sky?style=flat-square" alt="Platform Windows">
+  <img src="https://img.shields.io/badge/License-MIT-emerald?style=flat-square" alt="License MIT">
 </p>
 
 <p align="center">
@@ -22,96 +20,80 @@
 
 ---
 
-## 🌟 为什么需要本插件？
+## 项目简介
 
-在进行复杂的长程编码、大文件读取或多轮调试时，**上下文膨胀（Context Bloat）** 是导致 Agent 遗忘历史、响应降级甚至触发截断压缩的关键原因。
+在长程编码、批量文件检索与多轮迭代场景中，上下文膨胀是引发模型响应降级与自动截断压缩的主要因素。
 
-**Antigravity Context Monitor** 专为解决这一痛点而生：
-- 零侵入对话上下文，不消耗对话 Token；
-- 依托 Antigravity 原生 **UI Sidecar** 体系，在侧边栏提供独立的可视化 HUD 面板；
-- 实时洞察当前会话的上下文体积、缓存命中率、步骤增量及自动压缩事件。
+Antigravity Context Monitor 依托 Antigravity 原生 UI Sidecar 架构构建，独立运行于辅助窗格中。它在不侵入对话上下文、不消耗对话 Token 的前提下，实时解析会话日志，提供可视化的上下文占用比例、全生命周期演进走势及自动瘦身压缩监测。
 
 ---
 
-## ✨ 核心特性
+## 核心功能
 
-- 🎯 **256k 真实上限基准**：基于 Antigravity 实际上下文限制（262,144 Tokens）精准计算占用比例与可用余量，严密贴合触发压缩的阈值线。
-- 📈 **全生命周期全景走势图**：
-  - 突破传统“仅展示最近40轮”的视野盲区，完整提取 Step 1 到最新步的全量波形；
-  - **1:1 物理像素矢量渲染**：圆点始终圆润饱满，文字清晰规整，彻底消除缩放拉伸变形；
-  - **十字准星吸附探针**：鼠标悬停在曲线上即可丝滑追踪任意历史轮次的上下文总量、单步新增与工具调用；
-  - **📉 压缩事件智能标注**：系统触发上下文瘦身与压缩时自动标记下落幅度，一目了然。
-- 🎚 **左右滑动可视化切换**：
-  - 双态滑动胶囊开关（`⚡ 自动跟随` ⇋ `📌 已锁定`）；
-  - 智能防抖引擎优先按真实用户交互排序，告别后台文件写入引起的会话跳动。
-- 📂 **按项目分类与会话分组**：
-  - 会话列表置于走势图下方，自动按所属项目归类排布；
-  - 支持顶部项目 Chip 快捷筛选与一键点击锁定切换；
-  - 页面全局严格锁死在当前窗口内（`h-screen overflow-hidden`），零整页滚动条，仅列表内部平滑自适应滚动。
-- ⚡ **零第三方依赖 (Zero Dependencies)**：
-  - 后端仅依赖 Python 原生标准库（`http.server`、`sqlite3`、`json`），**无需 `pip install` 任何额外库**；
-  - 前端纯原生 HTML5/Tailwind/SVG，极度轻巧敏捷。
+- **256k 真实窗口基准**：严格基于 Antigravity 实际上下文限制（262,144 Tokens）计算占用率与可用余量，精准反映触发自动压缩的阈值状态。
+- **全生命周期上下文走势**：提取从初始步骤至当前轮次的全程曲线，支持鼠标悬停十字准星探针查看历史步骤的上下文增量与工具调用，并在系统触发上下文瘦身时自动标注压缩事件与下落幅度。
+- **自动跟随与会话锁定**：集成双态可视化切换开关。默认采用交互优先的防抖跟随算法实时追踪最新活跃会话，避免后台文件写入引起的列表跳动；亦支持手动锁定固定会话持续观测。
+- **按项目聚合与会话管理**：自动根据工作区与项目归类历史会话，提供项目标签筛选与一键切换。
+- **零外部依赖**：后端完全基于 Python 3 标准库（`http.server`、`sqlite3`、`json`），前端采用原生 HTML5 与矢量 SVG，无需执行任何 `pip install` 即可开箱即用。
 
 ---
 
-## 🚀 一键安装方法 (Windows)
+## 安装指引 (Windows)
 
-在 PowerShell 中执行以下一行命令，即可将插件克隆至 Antigravity 插件目录，开箱即用：
+### 环境要求
+- Windows 10 / 11
+- Python 3.8+（支持 Windows 官方 `py` 启动器）
+- Google Antigravity 2.0+
+
+### 一键安装
+在 PowerShell 中执行以下命令，将插件克隆至 Antigravity 用户插件目录：
 
 ```powershell
 git clone https://github.com/Summer-kk/antigravity-context-monitor.git "$HOME\.gemini\config\plugins\context-monitor"
 ```
 
-> **提示**：克隆完成后，在 Antigravity 侧边栏即可直接点击开启。默认直接使用 Windows 官方 Python 启动器 `py`，零外部依赖，无需 `pip install` 任何库。
+克隆完成后无需重启主程序，插件将自动加载。
 
 ---
 
-## 💡 使用方式
+## 使用方式
 
-1. **直接点击原生侧边栏链接**：
-   在任何对话中点击：
+1. **通过原生侧边栏链接打开**：
+   在任意对话中直接点击下方协议链接，即可在辅助窗格中唤起监控面板：
    `sidecar://context-monitor/context-hud/`
-   即可立即在侧边辅助窗格打开专属 HUD 面板。
 
-2. **与 Agent 自然交互**：
-   在聊天窗口中直接向 Agent 发送：
-   - *“查看当前上下文”*
-   - *“监控当前 Token 消耗”*
-   - *“检查上下文健康度”*
-   
-   Agent 将自动引导您打开原生侧边栏。
+2. **通过 Agent 自然语言交互**：
+   在对话中向 Agent 发送如下指令，Agent 将自动提供侧边栏入口：
+   - “查看当前上下文占用”
+   - “检查当前会话 Token 健康度”
+   - “打开上下文走势图”
 
 ---
 
-## 📁 项目结构
+## 架构与文件结构
 
 ```text
-context-monitor/
-├── .gitignore               # 规范的 Git 忽略清单
+antigravity-context-monitor/
+├── .gitignore               # Git 忽略规则清单
 ├── LICENSE                  # MIT 开源许可证
 ├── README.md                # 项目文档
-├── plugin.json              # 插件核心清单
+├── plugin.json              # 插件核心清单与元数据
 ├── assets/
-│   └── logo.svg             # 插件矢量图标
+│   ├── logo.svg             # 插件矢量图标 (128x128)
+│   ├── preview.png          # 视网膜高清脱敏预览图
+│   └── preview.html         # 离线交互演示页面
 ├── rules/
 │   └── AGENTS.md            # Agent 行为规范与侧窗入口指引
 └── sidecars/
     └── context-hud/
-        ├── sidecar.json     # Sidecar 启动与挂载配置
-        ├── server.py        # 极简 HTTP 路由服务 (含进程热重载)
-        ├── engine.py        # 上下文数据解析与防抖跟随引擎
-        └── index.html       # 原生前端 HUD 面板
+        ├── sidecar.json     # Sidecar 启动规格与命令配置 (command: "py")
+        ├── server.py        # 本地 HTTP 路由服务与热重载接口
+        ├── engine.py        # 会话日志解析、Token 统计与防抖排序引擎
+        └── index.html       # 原生 HUD 前端界面
 ```
 
 ---
 
-## 🤝 贡献与反馈
-
-欢迎提交 Issue 或 Pull Request 共同改进！
-如果您觉得这个插件对您有帮助，欢迎点亮右上角的 ⭐ **Star**！
-
----
-
-## 📄 开源许可
+## 开源协议
 
 本项目遵循 [MIT License](LICENSE) 开源协议。
